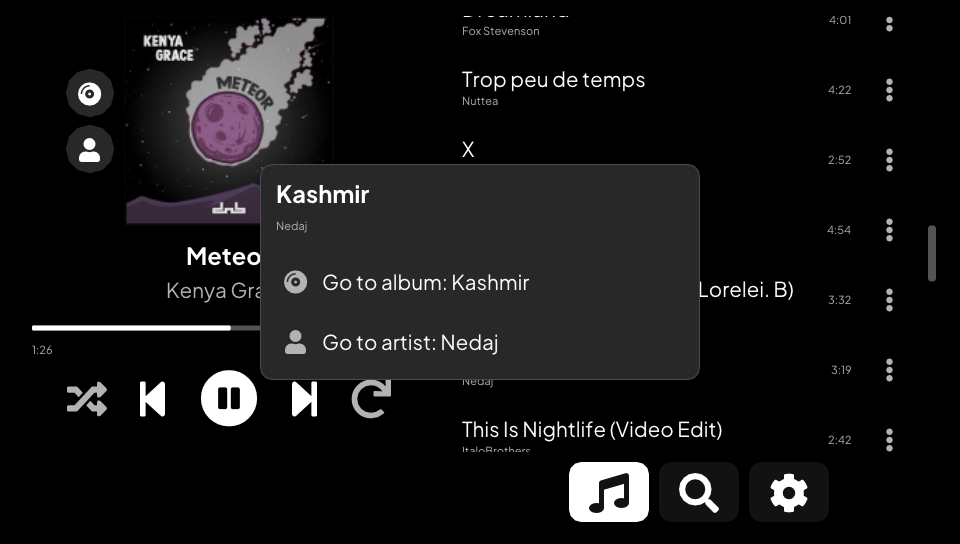
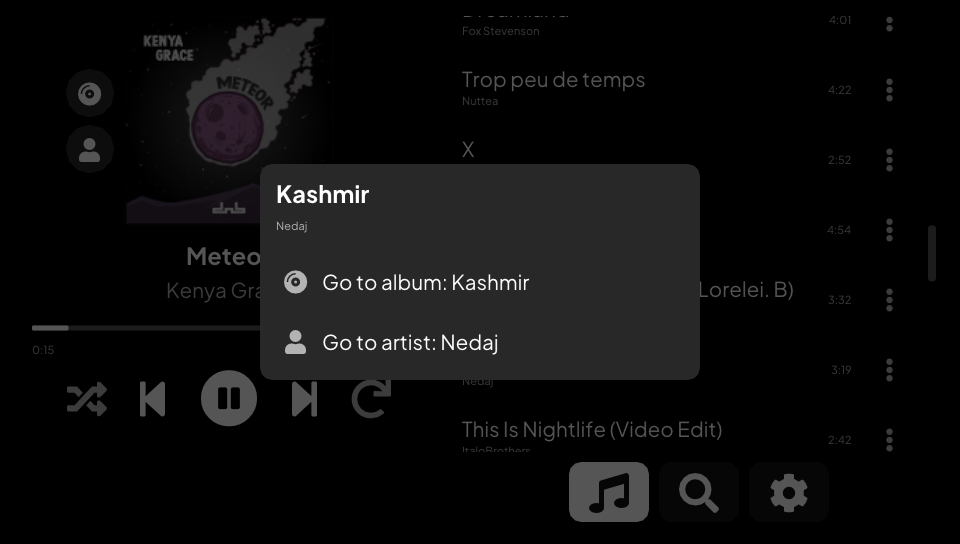
Dim the screen behind the song menu

diff --git a/src/Browse.cpp b/src/Browse.cpp
@@ -850,13 +850,24 @@ void PlaybackScreen::drawTrackMenu() {
     ImGui::SetNextWindowPos(ImVec2(480.0f, 272.0f), ImGuiCond_Always, ImVec2(0.5f, 0.5f));
     ImGui::SetNextWindowSize(ImVec2(w, 0.0f));
     ImGui::PushStyleVar(ImGuiStyleVar_WindowPadding, ImVec2(16.0f, 14.0f));
-    ImGui::PushStyleVar(ImGuiStyleVar_PopupRounding, 12.0f);
-    ImGui::PushStyleColor(ImGuiCol_PopupBg, COL_CARD);
+    ImGui::PushStyleVar(ImGuiStyleVar_PopupBorderSize, 0.0f);
+    ImGui::PushStyleColor(ImGuiCol_PopupBg, IM_COL32(0, 0, 0, 0));
     bool open = ImGui::BeginPopup("##trackmenu");
     ImGui::PopStyleColor();
     ImGui::PopStyleVar(2);
     if (!open) return;
     popupOpen = true;
+    // Dim the whole screen behind the card, like a modal: over a bright
+    // player and list, a bare card read as a glitch cutting them in half.
+    // The popup draws its own background after the dim, so it stays lit.
+    {
+        ImDrawList *dl = ImGui::GetWindowDrawList();
+        ImVec2 wp = ImGui::GetWindowPos(), ws = ImGui::GetWindowSize();
+        dl->PushClipRectFullScreen();
+        dl->AddRectFilled(ImVec2(0.0f, 0.0f), ImGui::GetIO().DisplaySize, IM_COL32(0, 0, 0, 170));
+        dl->AddRectFilled(wp, ImVec2(wp.x + ws.x, wp.y + ws.y), COL_CARD, 12.0f);
+        dl->PopClipRect();
+    }
     if (menu.uri.empty()) {   // closed by a debug command
         ImGui::CloseCurrentPopup();
         ImGui::EndPopup();
